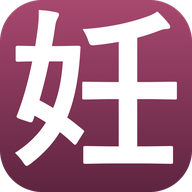
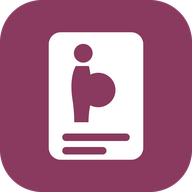
preg r20: アイコンをピクトグラムへ（メモ＋妊婦のシルエット）

diff --git a/preg/sw.js b/preg/sw.js
@@ -1,4 +1,4 @@
-const CACHE = 'preg-20261101-r19';
+const CACHE = 'preg-20261101-r20';
 const ASSETS = [
   './',
   './index.html',
